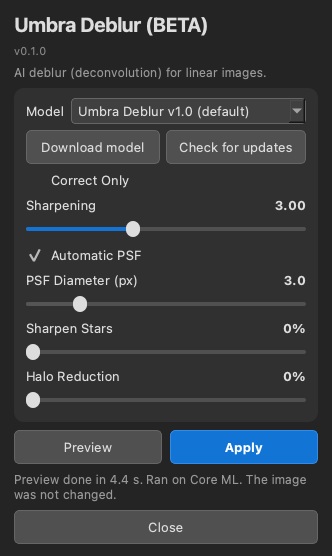
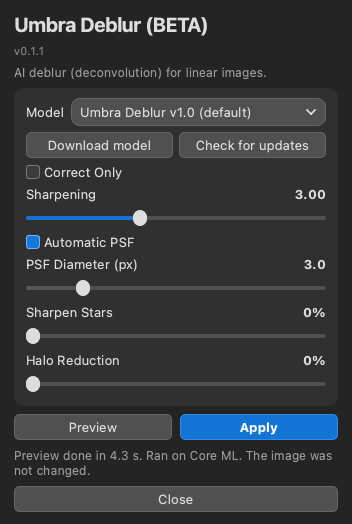
v0.1.1: buttons, check boxes, drop-downs and scroll bars styled like Umbra Astro Studio

Changed region(s): [[0.0301, 0.0916, 0.9639, 0.9771], [0.0301, 0.0305, 0.6325, 0.0611], [0.8434, 0.4885, 0.9337, 0.5191]]

diff --git a/Umbra_Deblur.py b/Umbra_Deblur.py
@@ -9,8 +9,9 @@ Run in Siril (Scripts menu), or standalone:
   python Umbra_Deblur.py --image in.fits --out out.fits [--model PATH.onnx] [--sharpening 0..8] [--strength 0..1] [--stars 0..1] [--halo 0..1] [--correct-only] [--fwhm PX] [--protect-stars]
   python Umbra_Deblur.py --ui-test        (opens the window on a fake image, runs Preview once, exits)
   python Umbra_Deblur.py --check-updates | --download [MODEL_ID|all]"""
-VERSION = '0.1.0'
-# Umbra Deblur 0.1.0 replaces Umbra Deconvolve 0.0.14: new name, models "Umbra Deblur v1.0" / "v1.1 (experimental)" (same files as before; the old
+VERSION = '0.1.1'
+# 0.1.1: buttons, check boxes, drop-down menus and scroll bars now look the same as in Umbra Astro Studio.
+# 0.1.0: Umbra Deblur 0.1.0 replaces Umbra Deconvolve 0.0.14: new name, models "Umbra Deblur v1.0" / "v1.1 (experimental)" (same files as before; the old
 # umbra_deconvolution_* files and the old "Umbra Deconvolve" folder keep working), a Preview window, Cancel, the family window layout, remembered settings.
 # ============================================================================================ shared code (src/common.py)
 # Everything the five scripts share: dependency install, ONNX Runtime sessions, updater, preferences, Siril I/O, family UI, CLI.
@@ -713,20 +714,34 @@ def to_rgb8(img, params, flip=False):
 STYLE = """
 QWidget { background: #242424; color: #dddddd; font-size: 10pt; }
 QWidget#Card { background: #303030; border-radius: 10px; }
-QLabel, QCheckBox, QSlider { background: transparent; }
+QLabel, QCheckBox, QRadioButton, QSlider { background: transparent; }
 QLabel#Title { font-size: 15pt; font-weight: bold; color: #dddddd; }
 QLabel#Badge { color: #888888; font-size: 8pt; }
 QLabel#Note { color: #999999; font-size: 9pt; }
 QLabel#Value { color: #dddddd; font-weight: bold; min-width: 40px; }
 QLabel#Caption { color: #aaaaaa; font-size: 9pt; }
-QComboBox { background: #404040; border: 1px solid #666666; border-radius: 4px; padding: 3px 6px; }
-QComboBox QAbstractItemView { background: #303030; selection-background-color: #1274d5; }
-QPushButton { min-height: 20px; background: #505050; border: 1px solid #666666; border-radius: 5px; padding: 6px 12px; }
+QToolTip { color: #dddddd; background: #404040; border: 1px solid #666666; padding: 6px; }
+QCheckBox { spacing: 4px; background: transparent; }
+QCheckBox::indicator { width: 12px; height: 12px; border: 1px solid #777777; border-radius: 3px; background: #3c3c3c; }
+QCheckBox::indicator:checked { background: #1679db; border-color: #6eb5ff; }
+QCheckBox::indicator:disabled { border-color: #555555; background: #2e2e2e; }
+QComboBox { background: transparent; border: none; padding: 5px 25px 5px 9px; min-height: 18px; }
+QComboBox QAbstractItemView { background: #3d3d3d; color: #dddddd; border: 1px solid #666666; border-radius: 9px; padding: 5px; selection-background-color: #1679db; outline: 0; }
+QComboBox QAbstractItemView::item { padding: 5px 8px; border-radius: 5px; }
+QPushButton { background: #505050; border: 1px solid #666666; border-radius: 5px; padding: 4px 7px; }
 QPushButton:hover { background: #616161; }
-QPushButton:checked { background: #1274d5; border-color: #338be7; color: #ffffff; }
+QPushButton:checked { background: #1474d5; border-color: #358eef; }
 QPushButton:disabled { color: #777777; border-color: #444444; }
-QPushButton#Apply { min-height: 20px; background: #1274d5; color: #ffffff; font-weight: bold; border-color: #338be7; }
+QPushButton#Apply { background: #1274d5; color: #ffffff; font-weight: bold; border-color: #338be7; }
 QPushButton#Apply:disabled { background: #354656; color: #808890; border-color: #43505c; }
+QScrollArea { border: none; background: #242424; }
+QScrollBar:vertical { background: #242424; width: 8px; margin: 0; }
+QScrollBar::handle:vertical { background: #555555; border-radius: 4px; min-height: 24px; }
+QScrollBar::add-line:vertical, QScrollBar::sub-line:vertical { height: 0; }
+QScrollBar:horizontal { background: #242424; height: 8px; margin: 0; }
+QScrollBar::handle:horizontal { background: #555555; border-radius: 4px; min-width: 24px; }
+QScrollBar::add-line:horizontal, QScrollBar::sub-line:horizontal { width: 0; }
+QScrollBar::add-page:horizontal, QScrollBar::sub-page:horizontal, QScrollBar::add-page:vertical, QScrollBar::sub-page:vertical { background: transparent; }
 QSlider::groove:horizontal { height: 4px; background: #505050; border-radius: 2px; }
 QSlider::sub-page:horizontal { background: #1474d5; border-radius: 2px; }
 QSlider::handle:horizontal { background: #dddddd; width: 14px; margin: -6px 0; border-radius: 7px; }
@@ -748,6 +763,45 @@ def _qt():
     from PyQt6.QtGui import QImage, QPixmap
     from PyQt6.QtWidgets import (QApplication, QWidget, QLabel, QVBoxLayout, QHBoxLayout, QPushButton, QSlider, QProgressBar,
                                  QComboBox, QCheckBox, QSizePolicy, QStackedWidget, QMenu, QLayout)
+
+    from PyQt6.QtCore import QPointF, QRectF
+    from PyQt6.QtGui import QPainter, QPen, QColor
+    from PyQt6.QtWidgets import QListView, QFrame
+
+    class ModernComboBox(QComboBox):
+        """Rounded drop-down, drawn the same on every platform (same look as Umbra Astro Studio)."""
+        def __init__(self, parent=None):
+            super().__init__(parent)
+            self.setMinimumHeight(28)
+            self.setCursor(Qt.CursorShape.PointingHandCursor)
+            view = QListView(self); view.setFrameShape(QFrame.Shape.NoFrame); view.setSpacing(1); self.setView(view)
+
+        def paintEvent(self, event):
+            p = QPainter(self); p.setRenderHint(QPainter.RenderHint.Antialiasing)
+            p.setPen(QPen(QColor('#4398ed') if self.hasFocus() else QColor('#666666'), 1))
+            p.setBrush(QColor('#606060') if (self.underMouse() and self.isEnabled()) else QColor('#505050'))
+            p.drawRoundedRect(QRectF(.5, .5, self.width() - 1, self.height() - 1), 8, 8)
+            p.setPen(QColor('#dddddd') if self.isEnabled() else QColor('#888888')); p.setFont(self.font())
+            text = self.fontMetrics().elidedText(self.currentText(), Qt.TextElideMode.ElideRight, max(1, self.width() - 35))
+            p.drawText(self.rect().adjusted(9, 0, -27, 0), Qt.AlignmentFlag.AlignVCenter | Qt.AlignmentFlag.AlignLeft, text)
+            cx, cy = self.width() - 15, self.height() / 2
+            p.setPen(QPen(QColor('#dddddd') if self.isEnabled() else QColor('#888888'), 1.7))
+            p.drawLine(QPointF(cx - 4, cy - 2), QPointF(cx, cy + 2)); p.drawLine(QPointF(cx, cy + 2), QPointF(cx + 4, cy - 2)); p.end()
+
+        def enterEvent(self, event):
+            super().enterEvent(event); self.update()
+
+        def leaveEvent(self, event):
+            super().leaveEvent(event); self.update()
+
+        def showPopup(self):
+            super().showPopup()
+            container = self.view().window()
+            container.setAttribute(Qt.WidgetAttribute.WA_TranslucentBackground, True)
+            container.setObjectName('RoundedComboPopup')
+            container.setStyleSheet('QFrame#RoundedComboPopup {background:#3d3d3d;border:1px solid #666666;border-radius:10px;padding:4px;} '
+                                    'QListView {background:#3d3d3d;color:#dddddd;border:none;border-radius:7px;padding:3px;outline:0;} '
+                                    'QListView::item {padding:5px 8px;border-radius:5px;} QListView::item:selected {background:#1679db;}')
 
     class Worker(QThread):
         done = pyqtSignal(object, object, float, str, object)
@@ -914,7 +968,7 @@ def _qt():
             row = QHBoxLayout()
             label = QLabel(text)
             row.addWidget(label)
-            cb = QComboBox()
+            cb = ModernComboBox()
             for t, v in items:
                 cb.addItem(t, v)
             if tip:
@@ -976,16 +1030,16 @@ def _qt():
             cl.setContentsMargins(12, 10, 12, 12)
             mrow = QHBoxLayout()
             mrow.addWidget(QLabel('Model'))
-            self.model_box = QComboBox()
+            self.model_box = ModernComboBox()
             mrow.addWidget(self.model_box, 1)
             cl.addLayout(mrow)
             brow = QHBoxLayout()
             self.dl_btn = QPushButton('Download model')
-            self.dl_btn.setMinimumHeight(30)
+            self.dl_btn.setMinimumHeight(26)
             self.dl_btn.setToolTip("Download a model from this project's GitHub releases (checked against a SHA-256 before it is installed).")
             self.dl_btn.clicked.connect(self.show_dl_menu)
             self.upd_btn = QPushButton('Check for updates')
-            self.upd_btn.setMinimumHeight(30)
+            self.upd_btn.setMinimumHeight(26)
             self.upd_btn.setToolTip('Looks for newer models and a newer script. Nothing is downloaded or replaced until you ask.')
             self.upd_btn.clicked.connect(lambda: self.fetch_info(manual=True))
             brow.addWidget(self.dl_btn); brow.addWidget(self.upd_btn)
@@ -1352,7 +1406,7 @@ def _qt():
                 tl.addWidget(QLabel(f'v{VERSION}', objectName='Badge'))
                 row = QHBoxLayout()
                 row.addWidget(QLabel('Tool'))
-                self.tool_box = QComboBox()
+                self.tool_box = ModernComboBox()
                 for s in specs:
                     self.tool_box.addItem(s.name, s.key)
                 row.addWidget(self.tool_box, 1)

diff --git a/README.md b/README.md
@@ -2,7 +2,7 @@
 
 Umbra Deblur is an AI deblur (deconvolution) tool for [Siril](https://siril.org), aimed at small-scope images (Seestar, Dwarf and similar) but usable on any linear image. It is a Siril Python script with an AI model. It runs locally on your computer and is free. It used to be called Umbra Deconvolve.
 
-**Status: Beta (v0.1.0).** Expect rough edges.
+**Status: Beta (v0.1.1).** Expect rough edges.
 
 ![Umbra Deblur panel](docs/screenshots/Umbra_Deblur_panel.png)
 
@@ -101,7 +101,7 @@ Small images: the model uses fixed 512 px tiles. A 300 x 250 crop matched the re
 
 ## Layout
 
-- `Umbra_Deblur.py`: the script (v0.1.0, ONNX Runtime, with model download and update check)
+- `Umbra_Deblur.py`: the script (v0.1.1, ONNX Runtime, with model download and update check)
 - `models/models.json`: model manifest (name, version, download URL, SHA-256, size)
 - `docs/screenshots/`: panel screenshots
 - `LICENSE`, `LICENSE-MODELS.md`: licenses
